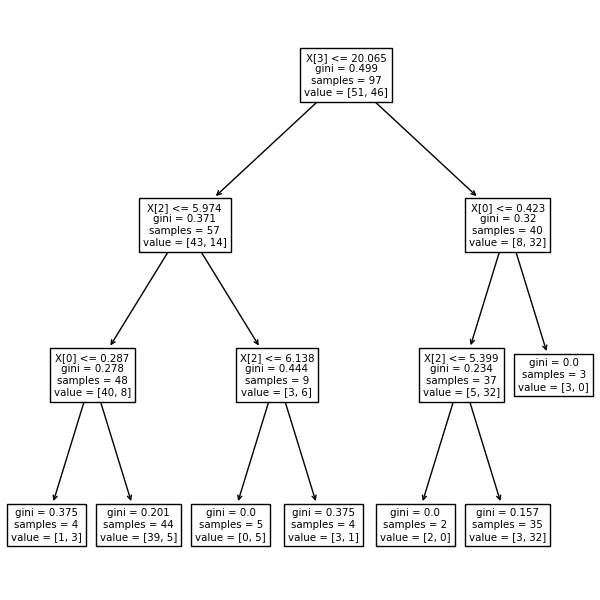
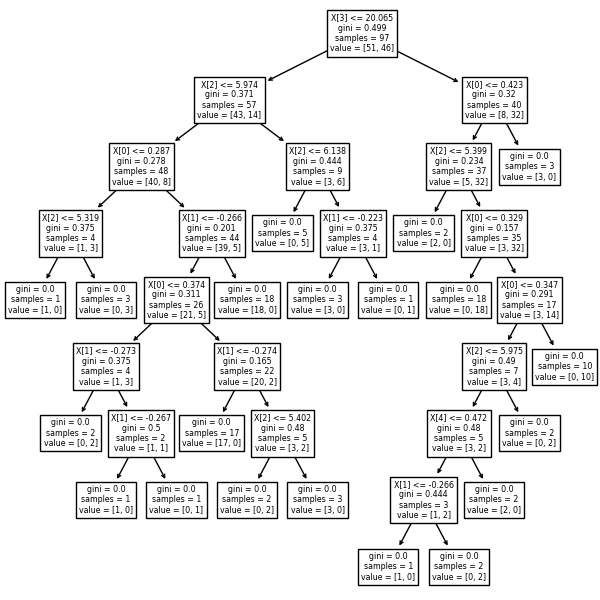
Initial commit

Changed region(s): [[0.0, 0.0, 1.0, 0.99], [0.66, 0.21, 0.69, 0.24], [0.39, 0.27, 0.42, 0.3]]

diff --git a/interface.py b/interface.py
@@ -4,11 +4,11 @@ from tkinter import Tk, Text
 from tkinter import *
 from PIL import Image
 from PIL import ImageTk
-<<<<<<< HEAD
+
 from main import draw_tree
-=======
+
 from main import load
->>>>>>> 764d558 (Initial commit)
+
 import idlelib.tooltip
 from idlelib.tooltip import Hovertip
 
@@ -21,21 +21,9 @@ def callback():
 
 def click_button():
     path = text.get("1.0","end-1c")
-<<<<<<< HEAD
+
     print(path)
-    if path != '':
-        score = draw_tree(path)
-        canvas = tk.Canvas(win, height=600, width=600)
-        img = tk.PhotoImage(file='filename.png')
-        image = canvas.create_image(0, 0, anchor='nw', image=img)
-        # canvas.grid(row=2,column=1)
-        canvas.pack()
-        label_accuracy = tk.Label(win, text="Точность: " + str(score), font=("Helvetica", 14))
-        label_accuracy.pack(ipadx=10, ipady=10)
-    else:
-        label_accuracy = tk.Label(win, text='Выберите файл!', font=("Helvetica", 25))
-        label_accuracy.pack(ipadx=10, ipady=10)
-=======
+    
     max_depth = max_depth_text.get("1.0","end-1c")
     min_size = min_size_text.get("1.0","end-1c")
     if max_depth == '':
@@ -66,17 +54,15 @@ def click_button():
         label_accuracy = tk.Label(win, text='Выберите файл!', font=("Helvetica", 25))
         label_accuracy.pack(ipadx=10, ipady=10)
         text.delete('1.0', END)
->>>>>>> 764d558 (Initial commit)
+
 
 # Создаем окно приложения
 win = Tk()
 win.title('Деревья решений')
 win.minsize(800, 500)
 win.resizable(True, True)
-<<<<<<< HEAD
 
-=======
->>>>>>> 764d558 (Initial commit)
+
 file_top = tk.Frame(win)
 text = tk.Text(file_top, height=1)
 text.pack(side='left')

diff --git a/main.py b/main.py
@@ -5,16 +5,7 @@ import openpyxl
 from sklearn import tree
 
 
-<<<<<<< HEAD
-def draw_tree(name_file):
-    df = pd.read_excel(name_file)
-    x = df.iloc[:, 1:]
-    y = df.iloc[:, :1]
-    x.head(3)
-    y.head(3)
 
-    model = tree.DecisionTreeClassifier(criterion="gini", max_depth=3)
-=======
 def load(name_file, max_depth, min_size):
     try:
         df = pd.read_excel(name_file)
@@ -29,7 +20,6 @@ def load(name_file, max_depth, min_size):
 
 def draw_tree(x, y, max_depth, min_size):
     model = tree.DecisionTreeClassifier(criterion="gini", max_depth=max_depth, min_samples_leaf=min_size)
->>>>>>> 764d558 (Initial commit)
     model.fit(x, y)
     print(model.score(x, y))
     fig = plt.figure(figsize=(6, 6))
